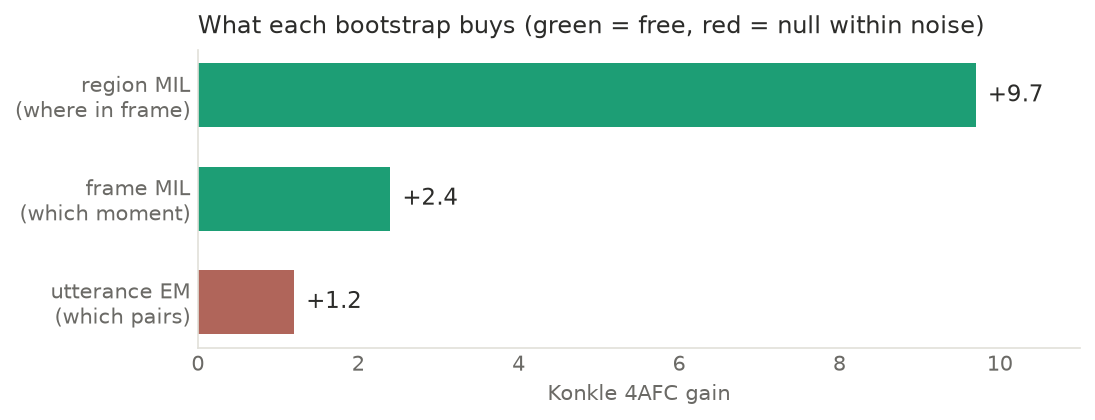
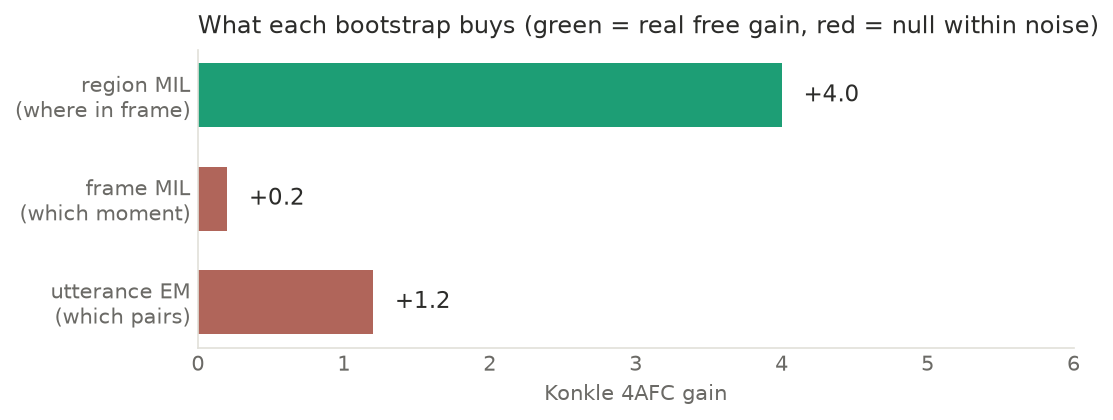
ch4: re-state the ladder on the clean single rig (honest reframe)
Full clean-rig DINOv2 ladder (3 seeds): meanpatch 61.3 -> region 65.3
(+4.0) -> frame +-2s 65.5 (+0.2, null) -> filter 69.9 -> word 74.0 ->
vision 81.5. Free selection gains are MODEST: region +4 (was CLS-inflated
+9.7), frame ~0 (was +2.4). The reachable climb (+16 to the 81 ceiling) is
almost entirely oracle; free route tops out ~65, +4.6 below the first
oracle rung. Removes the now-invalid 'free route within 1.7 of the oracle'
story and the window subsection. Regenerated 3 waterfalls. ch10 recap +
ch8 correction framing updated to match. ch5/ch6 keep their original-rig
experiment numbers with reconciliation footnotes (re-running those sweeps
is out of scope; offsets uniform, conclusions unchanged).

diff --git a/src/make_ladder_figs.py b/src/make_ladder_figs.py
@@ -56,32 +56,32 @@ def waterfall(steps, out, title, oracle_from=None, chance=25, ceiling=None, ylim
     fig.tight_layout(); fig.savefig(out, bbox_inches="tight"); plt.close(fig); print("wrote", out)
 
 
-# (a) the full ladder. Free rungs chain cumulatively; the oracle rungs branch from the
-# region-MIL baseline (62.6), so each carries an explicit base = the value it is measured from.
-waterfall([("pure\nlearning", 52.9), ("+ region\nMIL", 62.6),
-           ("+ frame\nMIL ±2s", 65.0), ("+ frame\nMIL ±5s", 66.8),
-           ("+ alignment\nfilter", 68.5, 62.6), ("+ word\nselection", 73.2, 68.5),
-           ("+ vision\nbinding", 81.3, 73.2)],
+# (a) the full ladder (clean single rig; mean-pooled whole-frame baseline). Free rungs chain
+# cumulatively; the oracle rungs branch from the region-MIL baseline (65.3).
+waterfall([("pure learning\n(mean-pooled)", 61.3), ("+ region\nMIL", 65.3),
+           ("+ frame\nMIL ±2s", 65.5),
+           ("+ alignment\nfilter", 69.9, 65.3), ("+ word\nselection", 74.0, 69.9),
+           ("+ vision\nbinding", 81.5, 74.0)],
           OUT / "fig_waterfall_ladder.png", "The bootstrapping ladder (Konkle test-60, 3 seeds)",
-          oracle_from=4, ceiling=81, ylim=(20, 88), branch_base=(62.6, 1, 4))
+          oracle_from=3, ceiling=81, ylim=(20, 88), branch_base=(65.3, 1, 3))
 
 # (b) the label decomposition (from the region-MIL baseline)
-waterfall([("region-MIL\nbaseline", 62.6), ("+ filter", 68.5), ("+ word\nselection", 73.2),
-           ("+ vision\nbinding", 81.3)],
-          OUT / "fig_waterfall_label.png", "Where the +19 label headroom lives",
-          oracle_from=1, ylim=(55, 88))
+waterfall([("region-MIL\nbaseline", 65.3), ("+ filter", 69.9), ("+ word\nselection", 74.0),
+           ("+ vision\nbinding", 81.5)],
+          OUT / "fig_waterfall_label.png", "Where the +16 label headroom lives",
+          oracle_from=1, ylim=(58, 88))
 
-# (c) what each bootstrap buys
+# (c) what each bootstrap buys (clean rig: the free selection gains are modest)
 fig, ax = plt.subplots(figsize=(7.4, 2.9), dpi=150)
-mechs = [("region MIL\n(where in frame)", 9.7, FREE),
-         ("frame MIL\n(which moment)", 2.4, FREE),
+mechs = [("region MIL\n(where in frame)", 4.0, FREE),
+         ("frame MIL\n(which moment)", 0.2, NULLC),
          ("utterance EM\n(which pairs)", 1.2, NULLC)]
 for y, (lab, d, c) in enumerate(mechs):
     ax.barh(y, d, color=c, height=0.62)
     ax.text(d + 0.15, y, "+%.1f" % d, va="center", fontsize=11, color=INK)
 ax.set_yticks(range(len(mechs))); ax.set_yticklabels([m[0] for m in mechs], fontsize=10)
-ax.invert_yaxis(); ax.set_xlim(0, 11); ax.set_xlabel("Konkle 4AFC gain", fontsize=10, color=SUB)
-ax.set_title("What each bootstrap buys (green = free, red = null within noise)",
+ax.invert_yaxis(); ax.set_xlim(0, 6); ax.set_xlabel("Konkle 4AFC gain", fontsize=10, color=SUB)
+ax.set_title("What each bootstrap buys (green = real free gain, red = null within noise)",
              fontsize=11.5, color=INK, loc="left", pad=8)
 for s in ("top", "right"): ax.spines[s].set_visible(False)
 ax.spines["left"].set_color(GRID); ax.spines["bottom"].set_color(GRID); ax.tick_params(colors=SUB, length=0)
